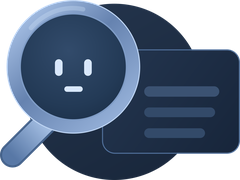
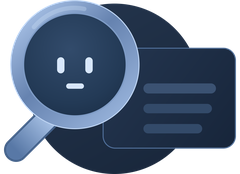
assets(DSA-40 D2): dark nph-empty illustration with the frame of the light one (240x174)
- The whole dark drawing fits, centered and uncut, in the 2048x1487 frame of the light
  one, then 2x (240x174) by Lanczos, as the light file. Figma 1993:56 holds the new source.
- DSA-115: the nph-empty files row records the dark file as done; the docs row says the
  DSA-40 pending section goes (D1 to D4 answered).

diff --git a/docs/operacao/tarefas/DSA-115.md b/docs/operacao/tarefas/DSA-115.md
@@ -37,12 +37,13 @@
     "WORK BRAIN — 03 MEMÓRIA/diario/2026/2026-10-08.md, component code and specs belong to the code owner; Claude takes only tokens",
     "WORK BRAIN — 03 MEMÓRIA/diario/2026/2026-11-09.md, Indiane asked for one new task with the code changes instead of reopening the done ones (DSA-70)",
     "WORK BRAIN — 03 MEMÓRIA/diario/2026/2026-11-23.md (15:0x), lot A of the pending decisions of the v1 closing, answered in the chat, all as recommended, after market research with sources: DSA-23 D5, DSA-34 D-2, DSA-40 D1 and D4, DSA-41 D2 and D4 and DSA-45 D-3 change the code; DSA-53 D-4 was already in the code (P116)",
+    "WORK BRAIN — 03 MEMÓRIA/diario/2026/2026-11-26.md (08:18 and 15:4x), DSA-40 D2 and D3 answered as recommended; the design side exports the dark illustration again with the frame of the light one (lot P1)",
     "WORK BRAIN — 03 MEMÓRIA/diario/2026/2026-11-23.md (15:1x), lot B of the pending decisions of the v1 closing, answered in the chat, all as recommended, after market research with sources: DSA-58 D-3, DSA-69 D-2 and DSA-96 D-15 change the code"
   ],
   "external_origin": null,
   "git_review": { "branch": null, "commit": null, "pr": null },
   "context": null,
-  "updated_at": "2026-11-23"
+  "updated_at": "2026-11-26"
 }
 ```
 
@@ -58,13 +59,13 @@ Each change in the table below is in the code of its piece, with its tests, stor
 | nph-input-otp | DSA-41 D2 | A property restricts the field to digits: each cell takes only 0 to 9, and the inner input carries `inputmode="numeric"`, so a phone shows the numeric keyboard. Without it, the field keeps letters and digits with `inputmode="text"`, as today. In the spec, the words "a way to restrict the field to digits" leave the list of what the piece does not do. GOV.UK: https://design-system.service.gov.uk/patterns/confirm-a-phone-number/ ; shadcn: https://ui.shadcn.com/docs/components/input-otp |
 | nph-input-otp (stories and spec) | DSA-41 D4 | The Docs page shows the resend action of the evidence as a common ghost `nph-button` below the field, in composition, with no link color and no underline, together with the countdown examples. The nph-button gains no link look. |
 | nph-checkbox, nph-switch, nph-dropdown-menu | DSA-45 D-3 | On item hover, the box of nph-checkbox and the track of nph-switch take their own hover (unchecked: `color/input-hover`, for 3:1 on `color/primary-surface`). The two pieces gain a way to show their hover from outside, and the item of nph-dropdown-menu turns it on while it is hovered. The hover reads the tokens each piece already reads on its own `:hover`. WCAG 1.4.11: https://www.w3.org/WAI/WCAG22/Understanding/non-text-contrast.html |
-| nph-empty (files) | DSA-40 D1 | The two illustration files are replaced by exports at 2× the drawing: 240 × 174 for the box of 120 × 87. The dark file keeps its own proportion at the same scale (DSA-40 D2 stays open). Done on the design side on 2026-11-23: `assets/illustrations/empty-no-option-found.png` (240 × 174) and `empty-no-option-found-dark.png` (240 × 180) were replaced with the same names, downscaled (Lanczos) to 2× from the 2048 px source images of the Figma file `DS-IA-NEPHOS 5.0`, transparent, from about 390 KB to about 27 KB each. No code changed: the box stays 120 × 87 with `object-fit: contain`. The code only checks that the stories and tests still pass with the new files, and the docs row below updates the lines of `docs/decisoes-tecnicas.md` that still give the old sizes (2048 × 1487 and 2048 × 1538) (item 6 of the nph-empty decision becomes "240 × 180 against 240 × 174") or still wait for lighter files. web.dev: https://web.dev/articles/serve-responsive-images |
+| nph-empty (files) | DSA-40 D1 | The two illustration files are replaced by exports at 2× the drawing: 240 × 174 for the box of 120 × 87. Done on the design side on 2026-11-23: `assets/illustrations/empty-no-option-found.png` (240 × 174) and `empty-no-option-found-dark.png` were replaced with the same names, downscaled (Lanczos) to 2× from the 2048 px source images of the Figma file `DS-IA-NEPHOS 5.0`, transparent, from about 390 KB to about 27 KB each. The dark file is done too (DSA-40 D2, 2026-11-26): its source now has the same frame as the light one, 2048 × 1487: the whole 2048 × 1538 drawing fits in it, centered, with nothing cut (Lanczos to 1980 × 1487, centered on a transparent frame, so the drawing takes about the same box as the light one). Figma `1993:56` holds the new source, and the dark file was exported again at 240 × 174 by the same method. Both files are now 240 × 174. No code changed: the box stays 120 × 87 with `object-fit: contain`. The code only checks that the stories and tests still pass with the new files, and the docs row below updates the lines of `docs/decisoes-tecnicas.md` that still give the old sizes (2048 × 1487 and 2048 × 1538) (item 6 of the nph-empty decision becomes "both 240 × 174, same frame") or still wait for lighter files. web.dev: https://web.dev/articles/serve-responsive-images |
 | nph-empty (package) | DSA-40 D4 | Option (c): the two illustrations are embedded in the package, so the product copies no file and an application published in a subdirectory shows them. The known limit of P84 and its lines in `docs/consuming.md` go. How they are embedded is the code owner's call; the spec names it. Carbon: https://carbondesignsystem.com/elements/pictograms/code/ |
 | nph-data-table | DSA-58 D-3 | A click on a sortable header goes ascending, descending and back to unsorted; the third click on the same column takes its sort away. MUI: https://mui.com/x/react-data-grid/sorting/ ; AG Grid: https://www.ag-grid.com/javascript-data-grid/row-sorting/ |
 | nph-context-menu | DSA-69 D-2 | The menu fires an event when it opens and when it closes, named after the events that already exist (`nph-close` of nph-dialog, `nph-toggle` of the pieces that open and close content); the spec gives the names. The spec says whether the opening event carries the element under the pointer, as `detail.origin` of `nph-item-select` (D-1). Radix: https://www.radix-ui.com/primitives/docs/components/context-menu ; AG Grid: https://www.ag-grid.com/javascript-data-grid/context-menu/ |
 | nph-date-picker | DSA-96 D-15 | It follows D-10. While a period may not cross an unavailable day (the property of D-10 off), a shortcut whose period holds a day unavailable by rule is disabled, with the disabled look of nph-option, as D-6; a typed period that holds one shows an error that says what to fix, as D-4. With the property on, both are accepted. React Spectrum: https://react-spectrum.adobe.com/react-spectrum/DateRangePicker.html ; MUI: https://mui.com/x/react-date-pickers/shortcuts/ |
 | docs (nph-label) | DSA-34 D-2 | Item 3 of the `use_when` of `fichas/nph-label.md` becomes "info with info-label to show the information icon after the text: info is the help text and info-label its accessible name." The Metadata is generated again (`node scripts/verificar-operacao.mjs --gerar-metadata`), and the three dictionaries take it: `en` the English text above, in place of the old one, `pt-BR` `info com info-label para mostrar o ícone de informação depois do texto: info é o texto da ajuda e info-label, o nome acessível.`; `es` `info con info-label para mostrar el icono de información después del texto: info es el texto de la ayuda e info-label, su nombre accesible.` |
-| docs | All the answers of 2026-11-23 | In `docs/decisoes-tecnicas.md`, the lines that still say one of the points answered on 2026-11-23 waits for Indiane are updated, including the ones where the code does not change (for example the line of DSA-48 D2 in the nph-tooltip decision, and "Pending for Indiane (DSA-40, D1 to D4)", which keeps only D2 and D3). Where a spec, the metadata or a story calls one of those points provisional or open, it becomes decided. The points still open keep the wording. |
+| docs | All the answers of 2026-11-23 | In `docs/decisoes-tecnicas.md`, the lines that still say one of the points answered on 2026-11-23 waits for Indiane are updated, including the ones where the code does not change (for example the line of DSA-48 D2 in the nph-tooltip decision, and "Pending for Indiane (DSA-40, D1 to D4)", which goes, because D1 to D4 are all answered: D1 and D4 on 2026-11-23, D2 and D3 on 2026-11-26, see DSA-40; the line that says D3 of DSA-40 asks Indiane to confirm becomes decided too). Where a spec, the metadata or a story calls one of those points provisional or open, it becomes decided. The points still open keep the wording. |
 
 ## Open points for the code
 - **The group inside the nph-toolbar**: the toolbar already moves through its actions with the arrow keys (DSA-55 D-2). How a toggle group inside the bar takes part in it (one roving for the whole bar, as the APG toolbar, or the group as one stop of the bar's roving) is the code owner's call; the spec of both pieces names it. APG toolbar: https://www.w3.org/WAI/ARIA/apg/patterns/toolbar/
